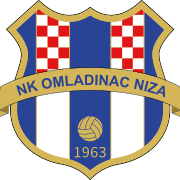
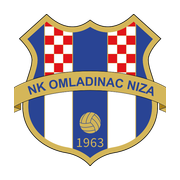
Gumb za instalaciju aplikacije + neprozirne ikone
"Podijeli → Dodaj na početni zaslon" nitko ne otkrije sam, pa sada
postoji vidljiv poziv:

- donja traka s grbom i gumbom "Dodaj"; pojavi se nakon 2,5s, može se
  zatvoriti i pamti se 60 dana
- na Androidu gumb otvara pravi sistemski dijalog (beforeinstallprompt)
- na iPhoneu API ne postoji, pa otvara upute u tri koraka s nacrtanom
  Podijeli ikonom
- trajni ulaz "Instaliraj aplikaciju" u footeru, neovisno o traci
- traka se ne prikazuje ako je stranica već instalirana

Ikone su bile prozirne, a iOS prozirno na početnom zaslonu prikazuje
kao crno — grb bi sjedio na crnom kvadratu. apple-touch-icon sada ima
bijelu podlogu, a dodana je i zasebna maskable ikona s grbom u sigurnoj
zoni jer Android ikonu obrezuje u krug.

diff --git a/src/pages/manifest.webmanifest.ts b/src/pages/manifest.webmanifest.ts
@@ -36,7 +36,9 @@ export const GET: APIRoute = () => {
         purpose: "any",
       },
       {
-        src: url("/icon-512.png"),
+        // Android obrezuje ikonu u krug/squircle — ova ima punu podlogu
+        // i grb unutar sigurne zone, pa se rubovi nemaju što odsjeći.
+        src: url("/icon-maskable-512.png"),
         sizes: "512x512",
         type: "image/png",
         purpose: "maskable",
